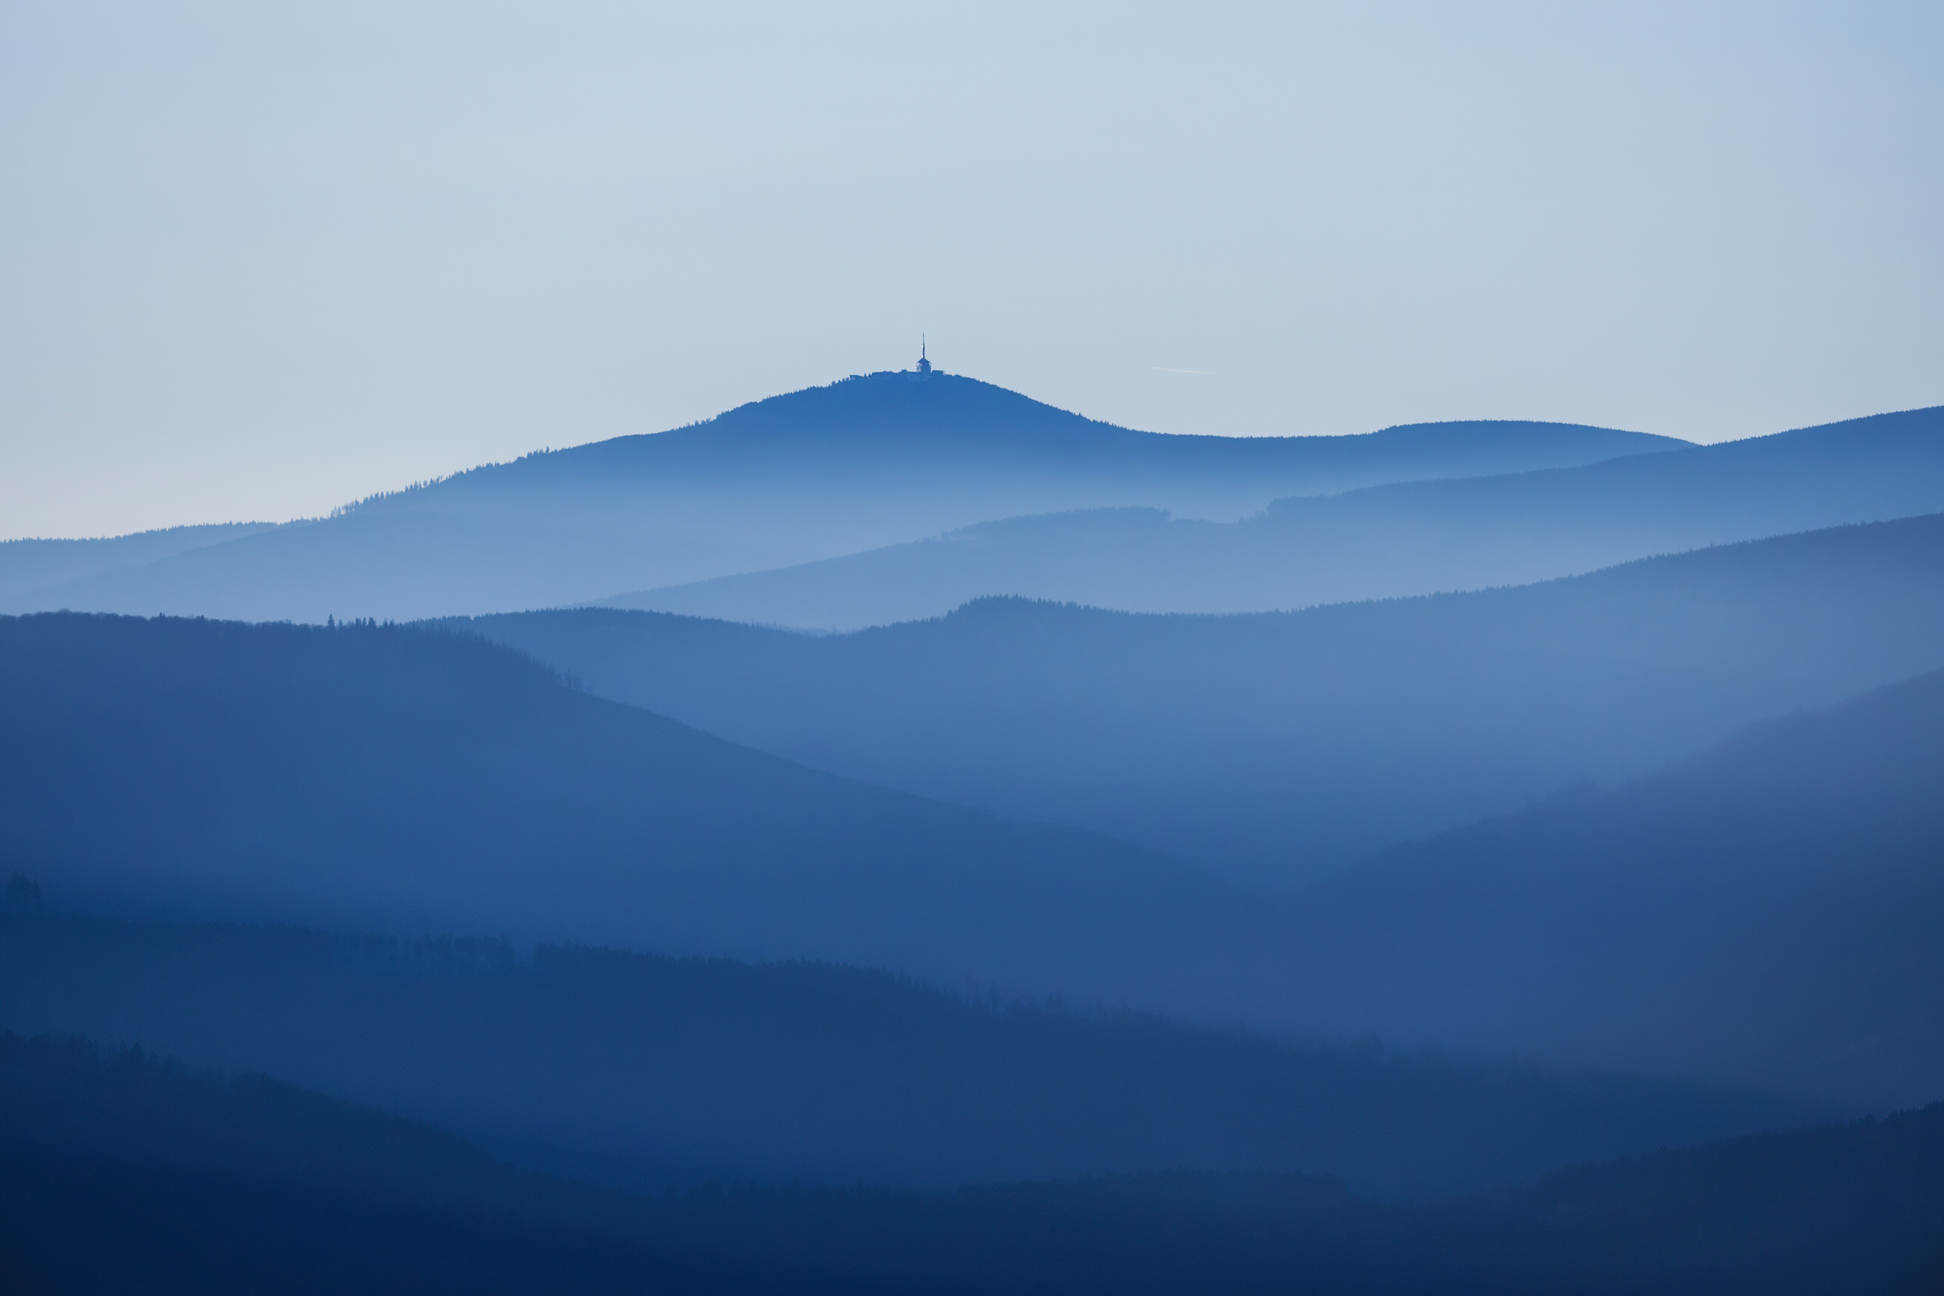
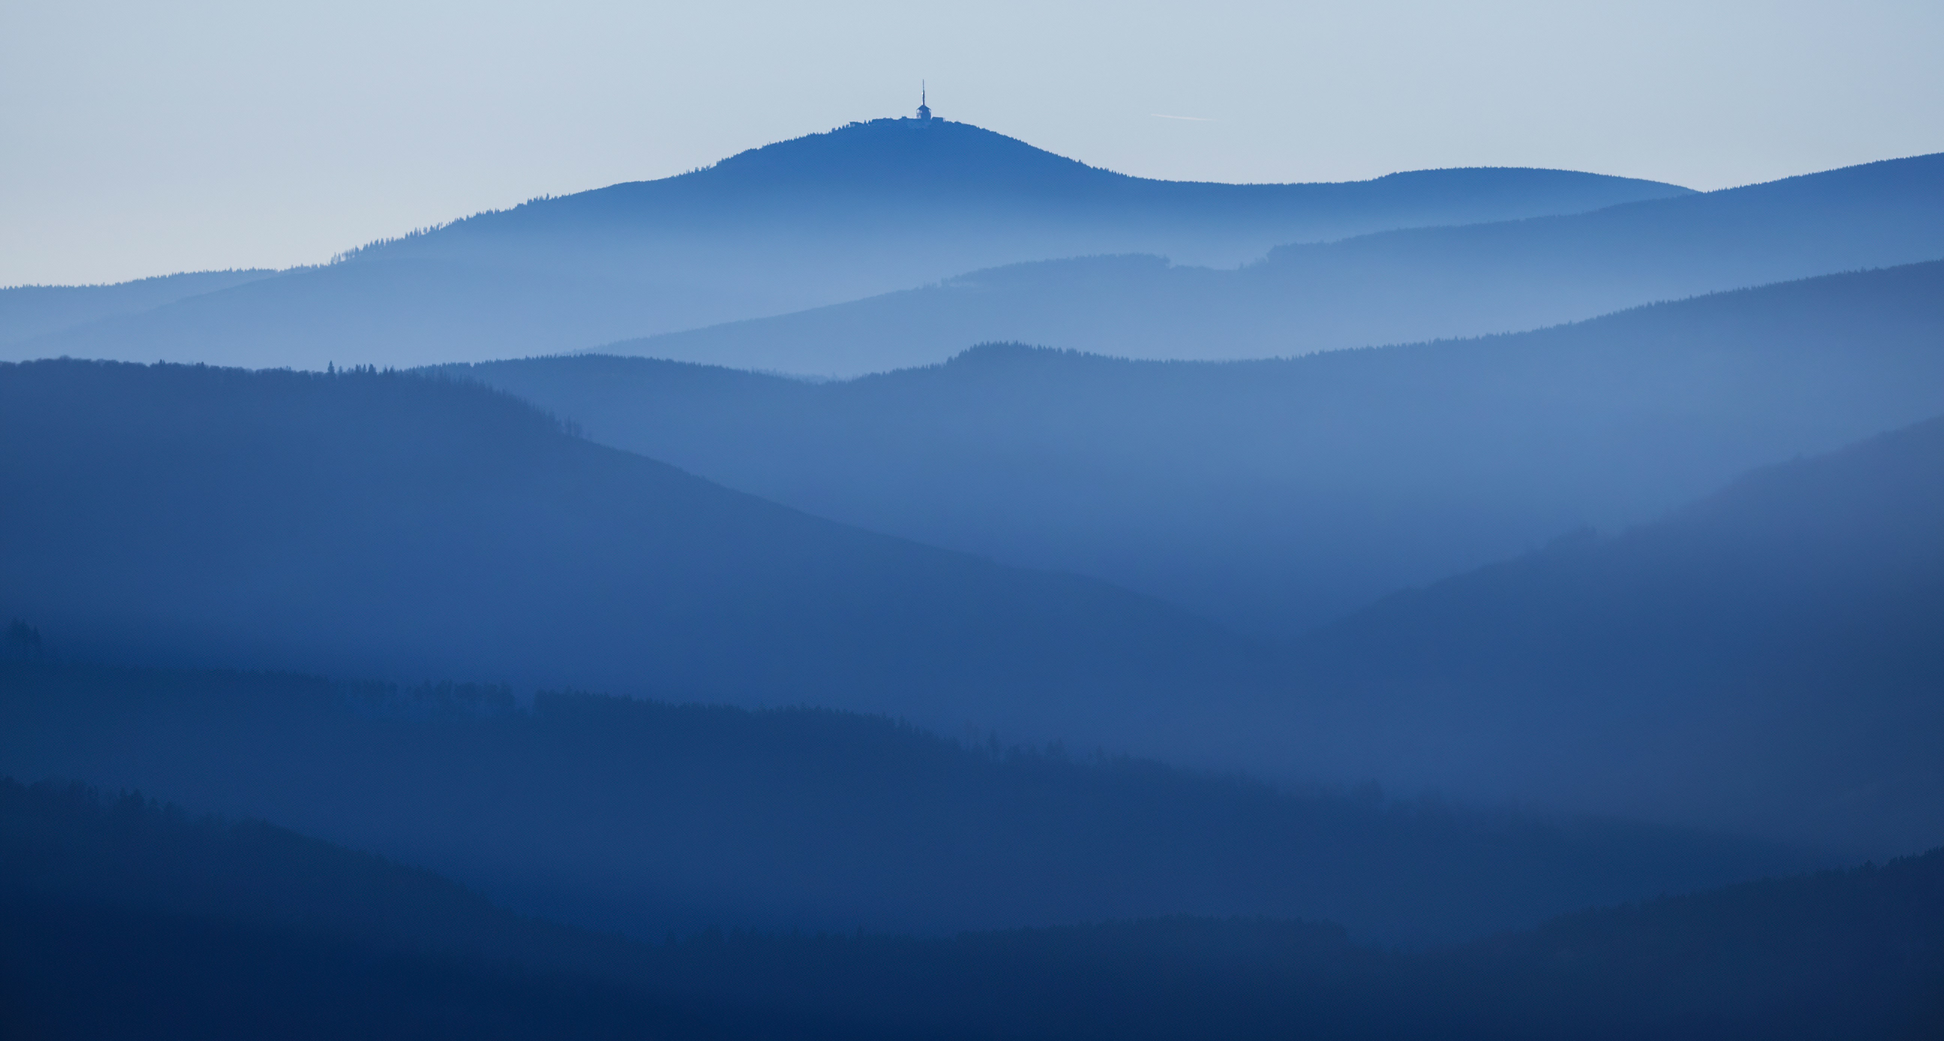
section: different approach to resposivity (welcome)

Changed region(s): [[0.0, 0.0929, 1.0, 0.6194], [0.0, 0.6194, 0.4688, 0.7432], [0.9688, 0.5574, 1.0, 0.5884]]

diff --git a/tailwindcss/output.css b/tailwindcss/output.css
@@ -1,2 +1,2 @@
 /*! tailwindcss v4.3.5 | MIT License | https://tailwindcss.com */
-@layer properties{@supports (((-webkit-hyphens:none)) and (not (margin-trim:block))) or ((-moz-orient:inline) and (not (color:rgb(from red r g b)))){*,:before,:after,::backdrop{--tw-translate-x:0;--tw-translate-y:0;--tw-translate-z:0;--tw-rotate-x:initial;--tw-rotate-y:initial;--tw-rotate-z:initial;--tw-skew-x:initial;--tw-skew-y:initial;--tw-border-style:solid;--tw-font-weight:initial}}}@layer theme{:root,:host{--font-sans:"Niramit", sans-serif;--font-mono:ui-monospace, SFMono-Regular, Menlo, Monaco, Consolas, "Liberation Mono", "Courier New", monospace;--spacing:.25rem;--text-2xl:1.5rem;--text-2xl--line-height:calc(2 / 1.5);--text-4xl:2.25rem;--text-4xl--line-height:calc(2.5 / 2.25);--font-weight-semibold:600;--font-weight-bold:700;--default-font-family:var(--font-sans);--default-mono-font-family:var(--font-mono);--color-dark-navy:#161c36;--color-very-light-blue:#ccd1d7;--color-almost-white:#ececec;--font-title:"Cal Sans", sans-serif}}@layer base{*,:after,:before,::backdrop{box-sizing:border-box;border:0 solid;margin:0;padding:0}::file-selector-button{box-sizing:border-box;border:0 solid;margin:0;padding:0}html,:host{-webkit-text-size-adjust:100%;tab-size:4;line-height:1.5;font-family:var(--default-font-family,-apple-system, BlinkMacSystemFont, "Segoe UI", Roboto, "Helvetica Neue", "Noto Sans", Arial, sans-serif, "Apple Color Emoji", "Segoe UI Emoji", "Segoe UI Symbol", "Noto Color Emoji");font-feature-settings:var(--default-font-feature-settings,normal);font-variation-settings:var(--default-font-variation-settings,normal);-webkit-tap-highlight-color:transparent}hr{height:0;color:inherit;border-top-width:1px}abbr:where([title]){-webkit-text-decoration:underline dotted;text-decoration:underline dotted}h1,h2,h3,h4,h5,h6{font-size:inherit;font-weight:inherit}a{color:inherit;-webkit-text-decoration:inherit;-webkit-text-decoration:inherit;-webkit-text-decoration:inherit;text-decoration:inherit}b,strong{font-weight:bolder}code,kbd,samp,pre{font-family:var(--default-mono-font-family,ui-monospace, SFMono-Regular, Menlo, Monaco, Consolas, "Liberation Mono", "Courier New", monospace);font-feature-settings:var(--default-mono-font-feature-settings,normal);font-variation-settings:var(--default-mono-font-variation-settings,normal);font-size:1em}small{font-size:80%}sub,sup{vertical-align:baseline;font-size:75%;line-height:0;position:relative}sub{bottom:-.25em}sup{top:-.5em}table{text-indent:0;border-color:inherit;border-collapse:collapse}:-moz-focusring:where(:not(iframe)){outline:auto}progress{vertical-align:baseline}summary{display:list-item}ol,ul,menu{list-style:none}img,svg,video,canvas,audio,iframe,embed,object{vertical-align:middle;display:block}img,video{max-width:100%;height:auto}button,input,select,optgroup,textarea{font:inherit;font-feature-settings:inherit;font-variation-settings:inherit;letter-spacing:inherit;color:inherit;opacity:1;background-color:#0000;border-radius:0}::file-selector-button{font:inherit;font-feature-settings:inherit;font-variation-settings:inherit;letter-spacing:inherit;color:inherit;opacity:1;background-color:#0000;border-radius:0}:where(select:is([multiple],[size])) optgroup{font-weight:bolder}:where(select:is([multiple],[size])) optgroup option{padding-inline-start:20px}::file-selector-button{margin-inline-end:4px}::placeholder{opacity:1}@supports (not ((-webkit-appearance:-apple-pay-button))) or (contain-intrinsic-size:1px){::placeholder{color:currentColor}@supports (color:color-mix(in lab, red, red)){::placeholder{color:color-mix(in oklab, currentcolor 50%, transparent)}}}textarea{resize:vertical}::-webkit-search-decoration{-webkit-appearance:none}::-webkit-date-and-time-value{min-height:1lh;text-align:inherit}::-webkit-datetime-edit{display:inline-flex}::-webkit-datetime-edit-fields-wrapper{padding:0}::-webkit-datetime-edit{padding-block:0}::-webkit-datetime-edit-year-field{padding-block:0}::-webkit-datetime-edit-month-field{padding-block:0}::-webkit-datetime-edit-day-field{padding-block:0}::-webkit-datetime-edit-hour-field{padding-block:0}::-webkit-datetime-edit-minute-field{padding-block:0}::-webkit-datetime-edit-second-field{padding-block:0}::-webkit-datetime-edit-millisecond-field{padding-block:0}::-webkit-datetime-edit-meridiem-field{padding-block:0}::-webkit-calendar-picker-indicator{line-height:1}:-moz-ui-invalid{box-shadow:none}button,input:where([type=button],[type=reset],[type=submit]){appearance:button}::file-selector-button{appearance:button}::-webkit-inner-spin-button{height:auto}::-webkit-outer-spin-button{height:auto}[hidden]:where(:not([hidden=until-found])){display:none!important}}@layer components;@layer utilities{.absolute{position:absolute}.relative{position:relative}.inset-0{inset:0}.inset-x-0{inset-inline:0}.top-12{top:calc(var(--spacing) * 12)}.top-52{top:calc(var(--spacing) * 52)}.top-58{top:calc(var(--spacing) * 58)}.top-60{top:calc(var(--spacing) * 60)}.top-76{top:calc(var(--spacing) * 76)}.top-86{top:calc(var(--spacing) * 86)}.top-92{top:calc(var(--spacing) * 92)}.top-94{top:calc(var(--spacing) * 94)}.top-102{top:calc(var(--spacing) * 102)}.left-1{left:var(--spacing)}.left-1\/2{left:50%}.left-14{left:calc(var(--spacing) * 14)}.mt-8{margin-top:calc(var(--spacing) * 8)}.mt-10{margin-top:calc(var(--spacing) * 10)}.mt-18{margin-top:calc(var(--spacing) * 18)}.mt-26{margin-top:calc(var(--spacing) * 26)}.ml-14{margin-left:calc(var(--spacing) * 14)}.block{display:block}.flex{display:flex}.table{display:table}.aspect-832\/753{aspect-ratio:832/753}.h-0{height:0}.h-40{height:calc(var(--spacing) * 40)}.h-dvh{height:100dvh}.w-0{width:0}.w-71{width:calc(var(--spacing) * 71)}.w-72{width:calc(var(--spacing) * 72)}.w-dvw{width:100dvw}.w-fit{width:fit-content}.w-max{width:max-content}.shrink-0{flex-shrink:0}.-translate-x-1{--tw-translate-x:calc(var(--spacing) * -1);translate:var(--tw-translate-x) var(--tw-translate-y)}.-translate-x-1\/2{--tw-translate-x:calc(calc(1 / 2 * 100%) * -1);translate:var(--tw-translate-x) var(--tw-translate-y)}.transform{transform:var(--tw-rotate-x, ) var(--tw-rotate-y, ) var(--tw-rotate-z, ) var(--tw-skew-x, ) var(--tw-skew-y, )}.flex-col{flex-direction:column}.items-center{align-items:center}.items-start{align-items:flex-start}.justify-center{justify-content:center}.justify-start{justify-content:flex-start}.gap-8{gap:calc(var(--spacing) * 8)}.gap-24{gap:calc(var(--spacing) * 24)}.place-self-start{place-self:start}.border-2{border-style:var(--tw-border-style);border-width:2px}.p-2{padding:calc(var(--spacing) * 2)}.pt-1{padding-top:var(--spacing)}.pr-3{padding-right:calc(var(--spacing) * 3)}.pl-3{padding-left:calc(var(--spacing) * 3)}.font-title{font-family:var(--font-title)}.text-2xl{font-size:var(--text-2xl);line-height:var(--tw-leading,var(--text-2xl--line-height))}.text-4xl{font-size:var(--text-4xl);line-height:var(--tw-leading,var(--text-4xl--line-height))}.font-bold{--tw-font-weight:var(--font-weight-bold);font-weight:var(--font-weight-bold)}.font-semibold{--tw-font-weight:var(--font-weight-semibold);font-weight:var(--font-weight-semibold)}.text-balance{text-wrap:balance}.text-almost-white{color:var(--color-almost-white)}.text-dark-navy{color:var(--color-dark-navy)}.text-very-light-blue{color:var(--color-very-light-blue)}@media (min-width:40rem){.sm\:top-58{top:calc(var(--spacing) * 58)}.sm\:top-92{top:calc(var(--spacing) * 92)}.sm\:left-36{left:calc(var(--spacing) * 36)}.sm\:left-40{left:calc(var(--spacing) * 40)}.sm\:ml-20{margin-left:calc(var(--spacing) * 20)}.sm\:ml-24{margin-left:calc(var(--spacing) * 24)}.sm\:ml-28{margin-left:calc(var(--spacing) * 28)}.sm\:ml-32{margin-left:calc(var(--spacing) * 32)}.sm\:ml-36{margin-left:calc(var(--spacing) * 36)}}@media (min-width:48rem){.md\:left-44{left:calc(var(--spacing) * 44)}.md\:left-50{left:calc(var(--spacing) * 50)}.md\:ml-42{margin-left:calc(var(--spacing) * 42)}.md\:ml-44{margin-left:calc(var(--spacing) * 44)}}@media (min-width:64rem){.lg\:absolute{position:absolute}.lg\:static{position:static}.lg\:inset-0{inset:0}.lg\:top-10{top:calc(var(--spacing) * 10)}.lg\:top-60{top:calc(var(--spacing) * 60)}.lg\:top-75{top:calc(var(--spacing) * 75)}.lg\:top-80{top:calc(var(--spacing) * 80)}.lg\:top-84{top:calc(var(--spacing) * 84)}.lg\:top-86{top:calc(var(--spacing) * 86)}.lg\:top-90{top:calc(var(--spacing) * 90)}.lg\:top-96{top:calc(var(--spacing) * 96)}.lg\:left-60{left:calc(var(--spacing) * 60)}.lg\:left-100{left:calc(var(--spacing) * 100)}.lg\:left-110{left:calc(var(--spacing) * 110)}.lg\:left-130{left:calc(var(--spacing) * 130)}.lg\:mt-4{margin-top:calc(var(--spacing) * 4)}.lg\:mt-6{margin-top:calc(var(--spacing) * 6)}.lg\:ml-60{margin-left:calc(var(--spacing) * 60)}.lg\:ml-64{margin-left:calc(var(--spacing) * 64)}.lg\:flex{display:flex}.lg\:flex-row{flex-direction:row}.lg\:items-center{align-items:center}.lg\:items-start{align-items:flex-start}.lg\:justify-center{justify-content:center}.lg\:gap-12{gap:calc(var(--spacing) * 12)}.lg\:gap-20{gap:calc(var(--spacing) * 20)}.lg\:text-almost-white{color:var(--color-almost-white)}.lg\:text-very-light-blue{color:var(--color-very-light-blue)}}@media (min-width:80rem){.xl\:left-80{left:calc(var(--spacing) * 80)}.xl\:left-100{left:calc(var(--spacing) * 100)}.xl\:left-140{left:calc(var(--spacing) * 140)}.xl\:left-160{left:calc(var(--spacing) * 160)}.xl\:ml-100{margin-left:calc(var(--spacing) * 100)}}}.wlc-bg-small{isolation:isolate;background-color:#08224a;position:relative;overflow:hidden}.wlc-bg-small:before{content:"";z-index:-1;filter:blur(8px);background:url(../assets/welcome.jpg) top/max(100%,1300px) no-repeat;position:absolute;inset:-16px}@property --tw-translate-x{syntax:"*";inherits:false;initial-value:0}@property --tw-translate-y{syntax:"*";inherits:false;initial-value:0}@property --tw-translate-z{syntax:"*";inherits:false;initial-value:0}@property --tw-rotate-x{syntax:"*";inherits:false}@property --tw-rotate-y{syntax:"*";inherits:false}@property --tw-rotate-z{syntax:"*";inherits:false}@property --tw-skew-x{syntax:"*";inherits:false}@property --tw-skew-y{syntax:"*";inherits:false}@property --tw-border-style{syntax:"*";inherits:false;initial-value:solid}@property --tw-font-weight{syntax:"*";inherits:false}
+@layer properties{@supports (((-webkit-hyphens:none)) and (not (margin-trim:block))) or ((-moz-orient:inline) and (not (color:rgb(from red r g b)))){*,:before,:after,::backdrop{--tw-translate-x:0;--tw-translate-y:0;--tw-translate-z:0;--tw-rotate-x:initial;--tw-rotate-y:initial;--tw-rotate-z:initial;--tw-skew-x:initial;--tw-skew-y:initial;--tw-border-style:solid;--tw-font-weight:initial}}}@layer theme{:root,:host{--font-sans:"Niramit", sans-serif;--font-mono:ui-monospace, SFMono-Regular, Menlo, Monaco, Consolas, "Liberation Mono", "Courier New", monospace;--spacing:.25rem;--text-2xl:1.5rem;--text-2xl--line-height:calc(2 / 1.5);--text-4xl:2.25rem;--text-4xl--line-height:calc(2.5 / 2.25);--font-weight-semibold:600;--font-weight-bold:700;--default-font-family:var(--font-sans);--default-mono-font-family:var(--font-mono);--color-dark-navy:#161c36;--color-very-light-blue:#ccd1d7;--color-almost-white:#ececec;--font-title:"Cal Sans", sans-serif}}@layer base{*,:after,:before,::backdrop{box-sizing:border-box;border:0 solid;margin:0;padding:0}::file-selector-button{box-sizing:border-box;border:0 solid;margin:0;padding:0}html,:host{-webkit-text-size-adjust:100%;tab-size:4;line-height:1.5;font-family:var(--default-font-family,-apple-system, BlinkMacSystemFont, "Segoe UI", Roboto, "Helvetica Neue", "Noto Sans", Arial, sans-serif, "Apple Color Emoji", "Segoe UI Emoji", "Segoe UI Symbol", "Noto Color Emoji");font-feature-settings:var(--default-font-feature-settings,normal);font-variation-settings:var(--default-font-variation-settings,normal);-webkit-tap-highlight-color:transparent}hr{height:0;color:inherit;border-top-width:1px}abbr:where([title]){-webkit-text-decoration:underline dotted;text-decoration:underline dotted}h1,h2,h3,h4,h5,h6{font-size:inherit;font-weight:inherit}a{color:inherit;-webkit-text-decoration:inherit;-webkit-text-decoration:inherit;-webkit-text-decoration:inherit;text-decoration:inherit}b,strong{font-weight:bolder}code,kbd,samp,pre{font-family:var(--default-mono-font-family,ui-monospace, SFMono-Regular, Menlo, Monaco, Consolas, "Liberation Mono", "Courier New", monospace);font-feature-settings:var(--default-mono-font-feature-settings,normal);font-variation-settings:var(--default-mono-font-variation-settings,normal);font-size:1em}small{font-size:80%}sub,sup{vertical-align:baseline;font-size:75%;line-height:0;position:relative}sub{bottom:-.25em}sup{top:-.5em}table{text-indent:0;border-color:inherit;border-collapse:collapse}:-moz-focusring:where(:not(iframe)){outline:auto}progress{vertical-align:baseline}summary{display:list-item}ol,ul,menu{list-style:none}img,svg,video,canvas,audio,iframe,embed,object{vertical-align:middle;display:block}img,video{max-width:100%;height:auto}button,input,select,optgroup,textarea{font:inherit;font-feature-settings:inherit;font-variation-settings:inherit;letter-spacing:inherit;color:inherit;opacity:1;background-color:#0000;border-radius:0}::file-selector-button{font:inherit;font-feature-settings:inherit;font-variation-settings:inherit;letter-spacing:inherit;color:inherit;opacity:1;background-color:#0000;border-radius:0}:where(select:is([multiple],[size])) optgroup{font-weight:bolder}:where(select:is([multiple],[size])) optgroup option{padding-inline-start:20px}::file-selector-button{margin-inline-end:4px}::placeholder{opacity:1}@supports (not ((-webkit-appearance:-apple-pay-button))) or (contain-intrinsic-size:1px){::placeholder{color:currentColor}@supports (color:color-mix(in lab, red, red)){::placeholder{color:color-mix(in oklab, currentcolor 50%, transparent)}}}textarea{resize:vertical}::-webkit-search-decoration{-webkit-appearance:none}::-webkit-date-and-time-value{min-height:1lh;text-align:inherit}::-webkit-datetime-edit{display:inline-flex}::-webkit-datetime-edit-fields-wrapper{padding:0}::-webkit-datetime-edit{padding-block:0}::-webkit-datetime-edit-year-field{padding-block:0}::-webkit-datetime-edit-month-field{padding-block:0}::-webkit-datetime-edit-day-field{padding-block:0}::-webkit-datetime-edit-hour-field{padding-block:0}::-webkit-datetime-edit-minute-field{padding-block:0}::-webkit-datetime-edit-second-field{padding-block:0}::-webkit-datetime-edit-millisecond-field{padding-block:0}::-webkit-datetime-edit-meridiem-field{padding-block:0}::-webkit-calendar-picker-indicator{line-height:1}:-moz-ui-invalid{box-shadow:none}button,input:where([type=button],[type=reset],[type=submit]){appearance:button}::file-selector-button{appearance:button}::-webkit-inner-spin-button{height:auto}::-webkit-outer-spin-button{height:auto}[hidden]:where(:not([hidden=until-found])){display:none!important}}@layer components;@layer utilities{.absolute{position:absolute}.relative{position:relative}.top-12{top:calc(var(--spacing) * 12)}.left-1{left:var(--spacing)}.left-1\/2{left:50%}.mt-4{margin-top:calc(var(--spacing) * 4)}.mt-8{margin-top:calc(var(--spacing) * 8)}.mb-6{margin-bottom:calc(var(--spacing) * 6)}.mb-10{margin-bottom:calc(var(--spacing) * 10)}.-ml-0{margin-left:0}.-ml-0\.5{margin-left:calc(var(--spacing) * -.5)}.-ml-1{margin-left:calc(var(--spacing) * -1)}.-ml-1\.5{margin-left:calc(var(--spacing) * -1.5)}.-ml-1\.75{margin-left:calc(var(--spacing) * -1.75)}.-ml-2{margin-left:calc(var(--spacing) * -2)}.ml-\[-2px\]{margin-left:-2px}.block{display:block}.flex{display:flex}.grid{display:grid}.table{display:table}.aspect-832\/753{aspect-ratio:832/753}.h-0{height:0}.h-40{height:calc(var(--spacing) * 40)}.h-dvh{height:100dvh}.w-0{width:0}.w-72{width:calc(var(--spacing) * 72)}.w-dvw{width:100dvw}.w-fit{width:fit-content}.w-max{width:max-content}.max-w-64{max-width:calc(var(--spacing) * 64)}.max-w-65{max-width:calc(var(--spacing) * 65)}.max-w-66{max-width:calc(var(--spacing) * 66)}.max-w-68{max-width:calc(var(--spacing) * 68)}.max-w-70{max-width:calc(var(--spacing) * 70)}.max-w-72{max-width:calc(var(--spacing) * 72)}.shrink-0{flex-shrink:0}.-translate-x-1{--tw-translate-x:calc(var(--spacing) * -1);translate:var(--tw-translate-x) var(--tw-translate-y)}.-translate-x-1\/2{--tw-translate-x:calc(calc(1 / 2 * 100%) * -1);translate:var(--tw-translate-x) var(--tw-translate-y)}.transform{transform:var(--tw-rotate-x, ) var(--tw-rotate-y, ) var(--tw-rotate-z, ) var(--tw-skew-x, ) var(--tw-skew-y, )}.flex-col{flex-direction:column}.items-start{align-items:flex-start}.justify-center{justify-content:center}.gap-24{gap:calc(var(--spacing) * 24)}.place-self-center{place-self:center}.self-center{align-self:center}.border-2{border-style:var(--tw-border-style);border-width:2px}.p-2{padding:calc(var(--spacing) * 2)}.pt-1{padding-top:var(--spacing)}.pr-3{padding-right:calc(var(--spacing) * 3)}.pl-3{padding-left:calc(var(--spacing) * 3)}.font-title{font-family:var(--font-title)}.text-2xl{font-size:var(--text-2xl);line-height:var(--tw-leading,var(--text-2xl--line-height))}.text-4xl{font-size:var(--text-4xl);line-height:var(--tw-leading,var(--text-4xl--line-height))}.font-bold{--tw-font-weight:var(--font-weight-bold);font-weight:var(--font-weight-bold)}.font-semibold{--tw-font-weight:var(--font-weight-semibold);font-weight:var(--font-weight-semibold)}.text-balance{text-wrap:balance}.text-almost-white{color:var(--color-almost-white)}.text-dark-navy{color:var(--color-dark-navy)}.text-very-light-blue{color:var(--color-very-light-blue)}@media (min-width:48rem){.md\:flex{display:flex}.md\:max-w-120{max-width:calc(var(--spacing) * 120)}.md\:justify-center{justify-content:center}.md\:justify-end{justify-content:flex-end}.md\:gap-10{gap:calc(var(--spacing) * 10)}.md\:place-self-end{place-self:end}}@media (min-width:64rem){.lg\:top-\[40\%\]{top:40%}.lg\:mt-4{margin-top:calc(var(--spacing) * 4)}.lg\:mt-6{margin-top:calc(var(--spacing) * 6)}.lg\:flex-row{flex-direction:row}.lg\:gap-20{gap:calc(var(--spacing) * 20)}.lg\:text-almost-white{color:var(--color-almost-white)}}}.wlc-bg-small{isolation:isolate;background-color:#08224a;position:relative;overflow:hidden}.wlc-bg-small:before{content:"";z-index:-1;filter:blur(8px);background:url(../assets/welcome.jpg) top/max(100%,1300px) no-repeat;position:absolute;inset:-16px}@property --tw-translate-x{syntax:"*";inherits:false;initial-value:0}@property --tw-translate-y{syntax:"*";inherits:false;initial-value:0}@property --tw-translate-z{syntax:"*";inherits:false;initial-value:0}@property --tw-rotate-x{syntax:"*";inherits:false}@property --tw-rotate-y{syntax:"*";inherits:false}@property --tw-rotate-z{syntax:"*";inherits:false}@property --tw-skew-x{syntax:"*";inherits:false}@property --tw-skew-y{syntax:"*";inherits:false}@property --tw-border-style{syntax:"*";inherits:false;initial-value:solid}@property --tw-font-weight{syntax:"*";inherits:false}alse}@property --tw-skew-y{syntax:"*";inherits:false}@property --tw-border-style{syntax:"*";inherits:false;initial-value:solid}@property --tw-font-weight{syntax:"*";inherits:false}

diff --git a/index.html b/index.html
@@ -14,24 +14,20 @@
   </head>
   <body>
     <!-- SECTIONS -->
-    <section id="top" class="h-dvh w-dvw wlc-bg-small relative">
-      <div
-        class="absolute left-1/2 -translate-x-1/2 w-max top-12 lg:top-75 flex flex-col lg:flex-row items-start gap-24 lg:gap-20"
-      >
-        <svg
-          class="h-40 aspect-832/753 shrink-0 text-dark-navy lg:text-almost-white"
-        >
+    <section id="top" class="h-dvh w-dvw wlc-bg-small relative grid">
+      <div class="place-self-center w-fit md:flex md:gap-10 md:justify-center">
+        <svg class="h-40 aspect-832/753 shrink-0 text-almost-white -ml-1.75 mb-10">
           <use href="./assets/branding.svg#logo" />
         </svg>
-        <div class="lg:mt-6">
+        <div class="max-w-65">
           <h1
-            class="text-4xl text-balance w-72 text-almost-white font-title font-bold"
+            class="text-4xl text-balance w-72 text-almost-white font-title font-bold mb-6"
           >
             Montage met <br />
             oog voor detail.
           </h1>
           <a
-            class="mt-8 lg:mt-4 p-2 pt-1 pr-3 pl-3 border-2 block w-fit text-very-light-blue text-2xl font-semibold"
+            class="p-2 pt-1 pr-3 pl-3 border-2 block w-fit text-very-light-blue text-2xl font-semibold"
             href="#services"
             >Contact
             <svg class="w-0 h-0">
